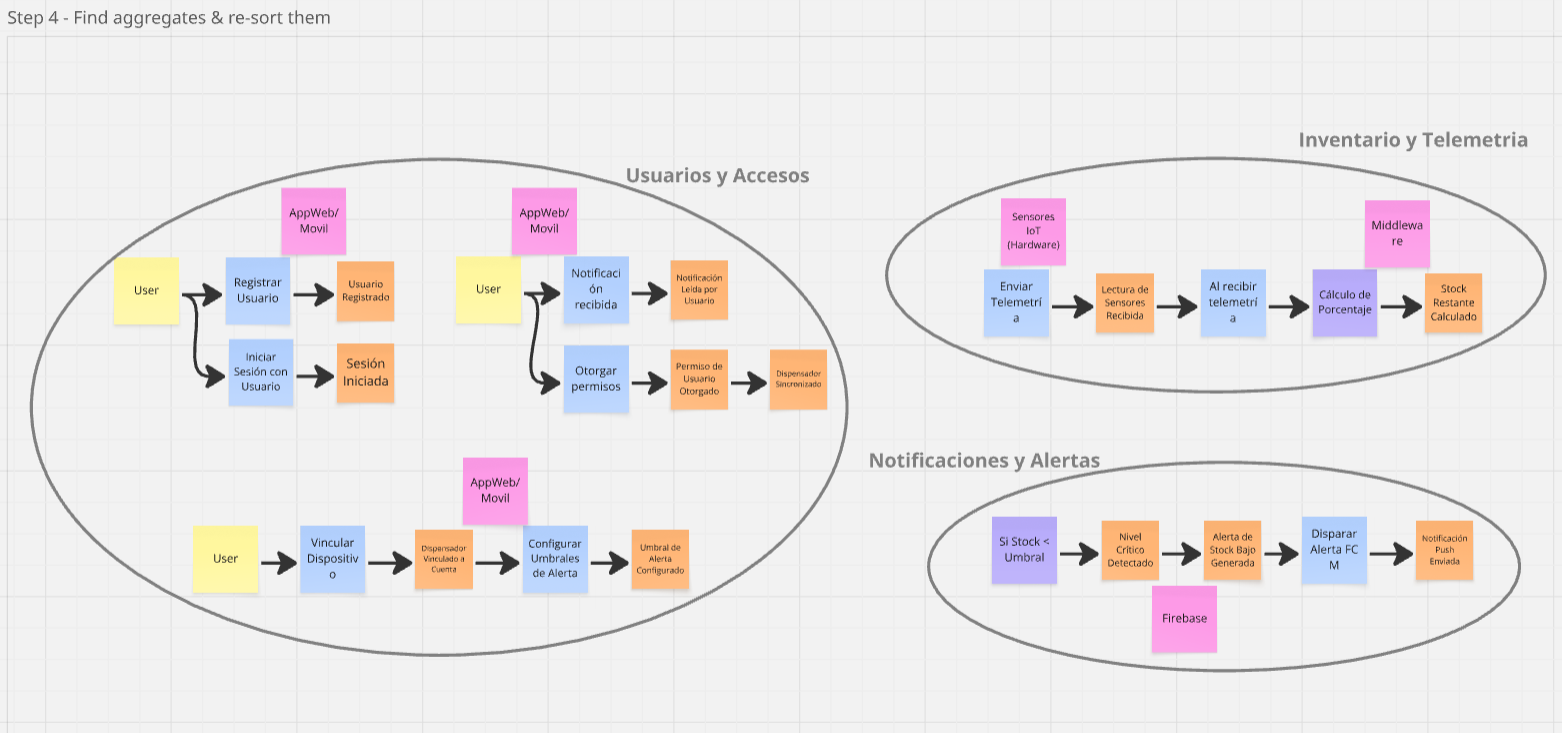
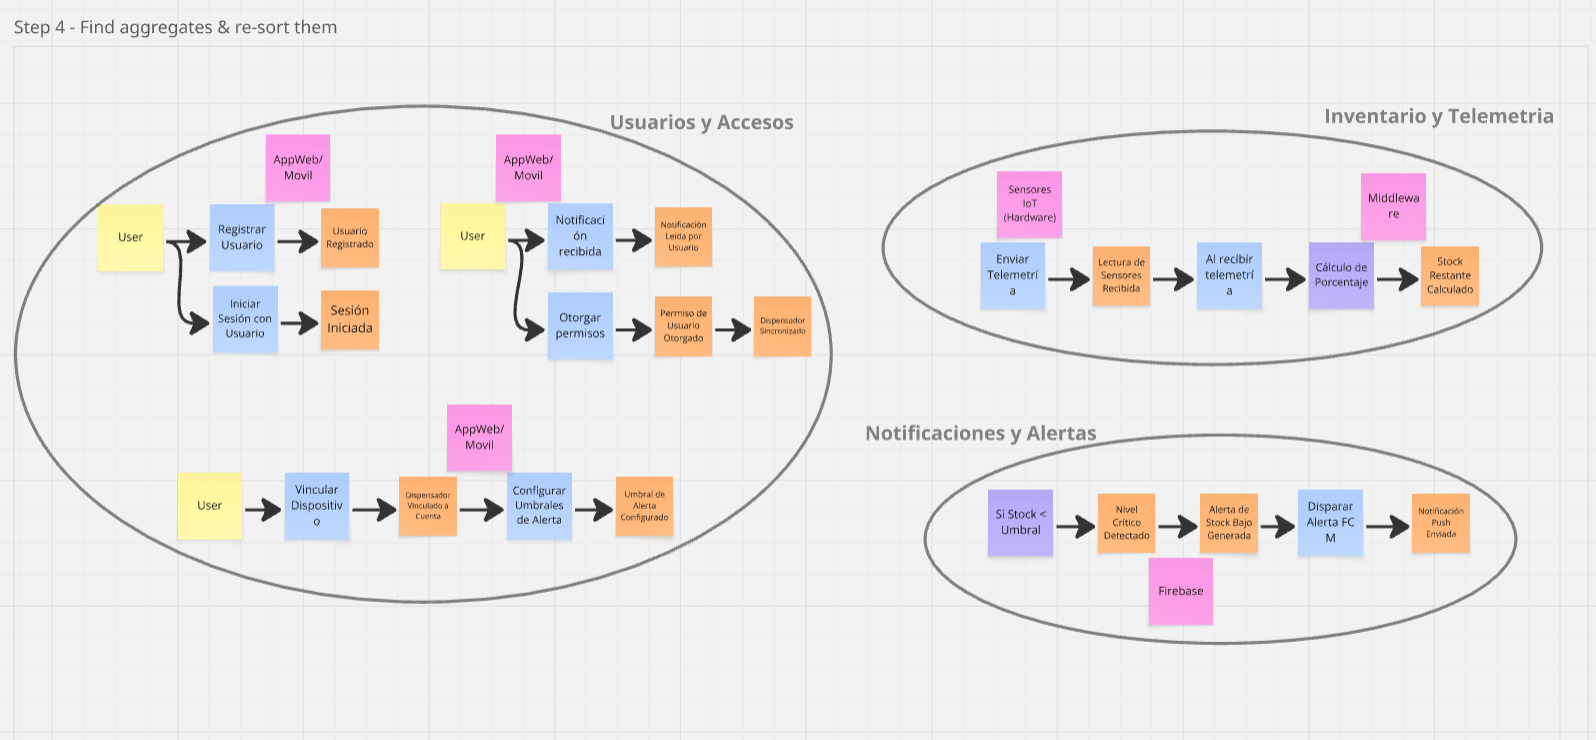
Add Message Flow

diff --git a/Chapter-4.md b/Chapter-4.md
@@ -29,8 +29,12 @@
     Para identificar los Bounded Contexts candidatos buscamos entender los elementos importantes del sistema, identificando hitos donde el estado del negocio cambia drásticamente y la responsabilidad pasa de un componente a otro.
 
     ![Event Storming DispenXCore4](/images/EventStorm4.png)
-        - **4.1.1.2. Domain Message Flows Modeling** 
-        - **4.1.1.3. Bounded Context Canvases** 
+    **4.1.1.2. Domain Message Flows Modeling**
+
+    Para analizar y diseñar la arquitectura de comunicación de DispenXCore, se utiliza el Modelado de Flujos de Mensajes de Dominio. Este método ilustra de manera detallada la transferencia de información entre los Bounded Contexts y los sistemas externos mediante el intercambio de mensajes (Comandos, Eventos y Consultas).
+
+    ![Domain Flow Message DispenXCore](/images/FlowMessage.png)     
+    **4.1.1.3. Bounded Context Canvases** 
     - **4.1.2. Context Mapping** 
     - **4.1.3. Software Architecture** 
         - **4.1.3.1. Software Architecture System Landscape Diagram** 
